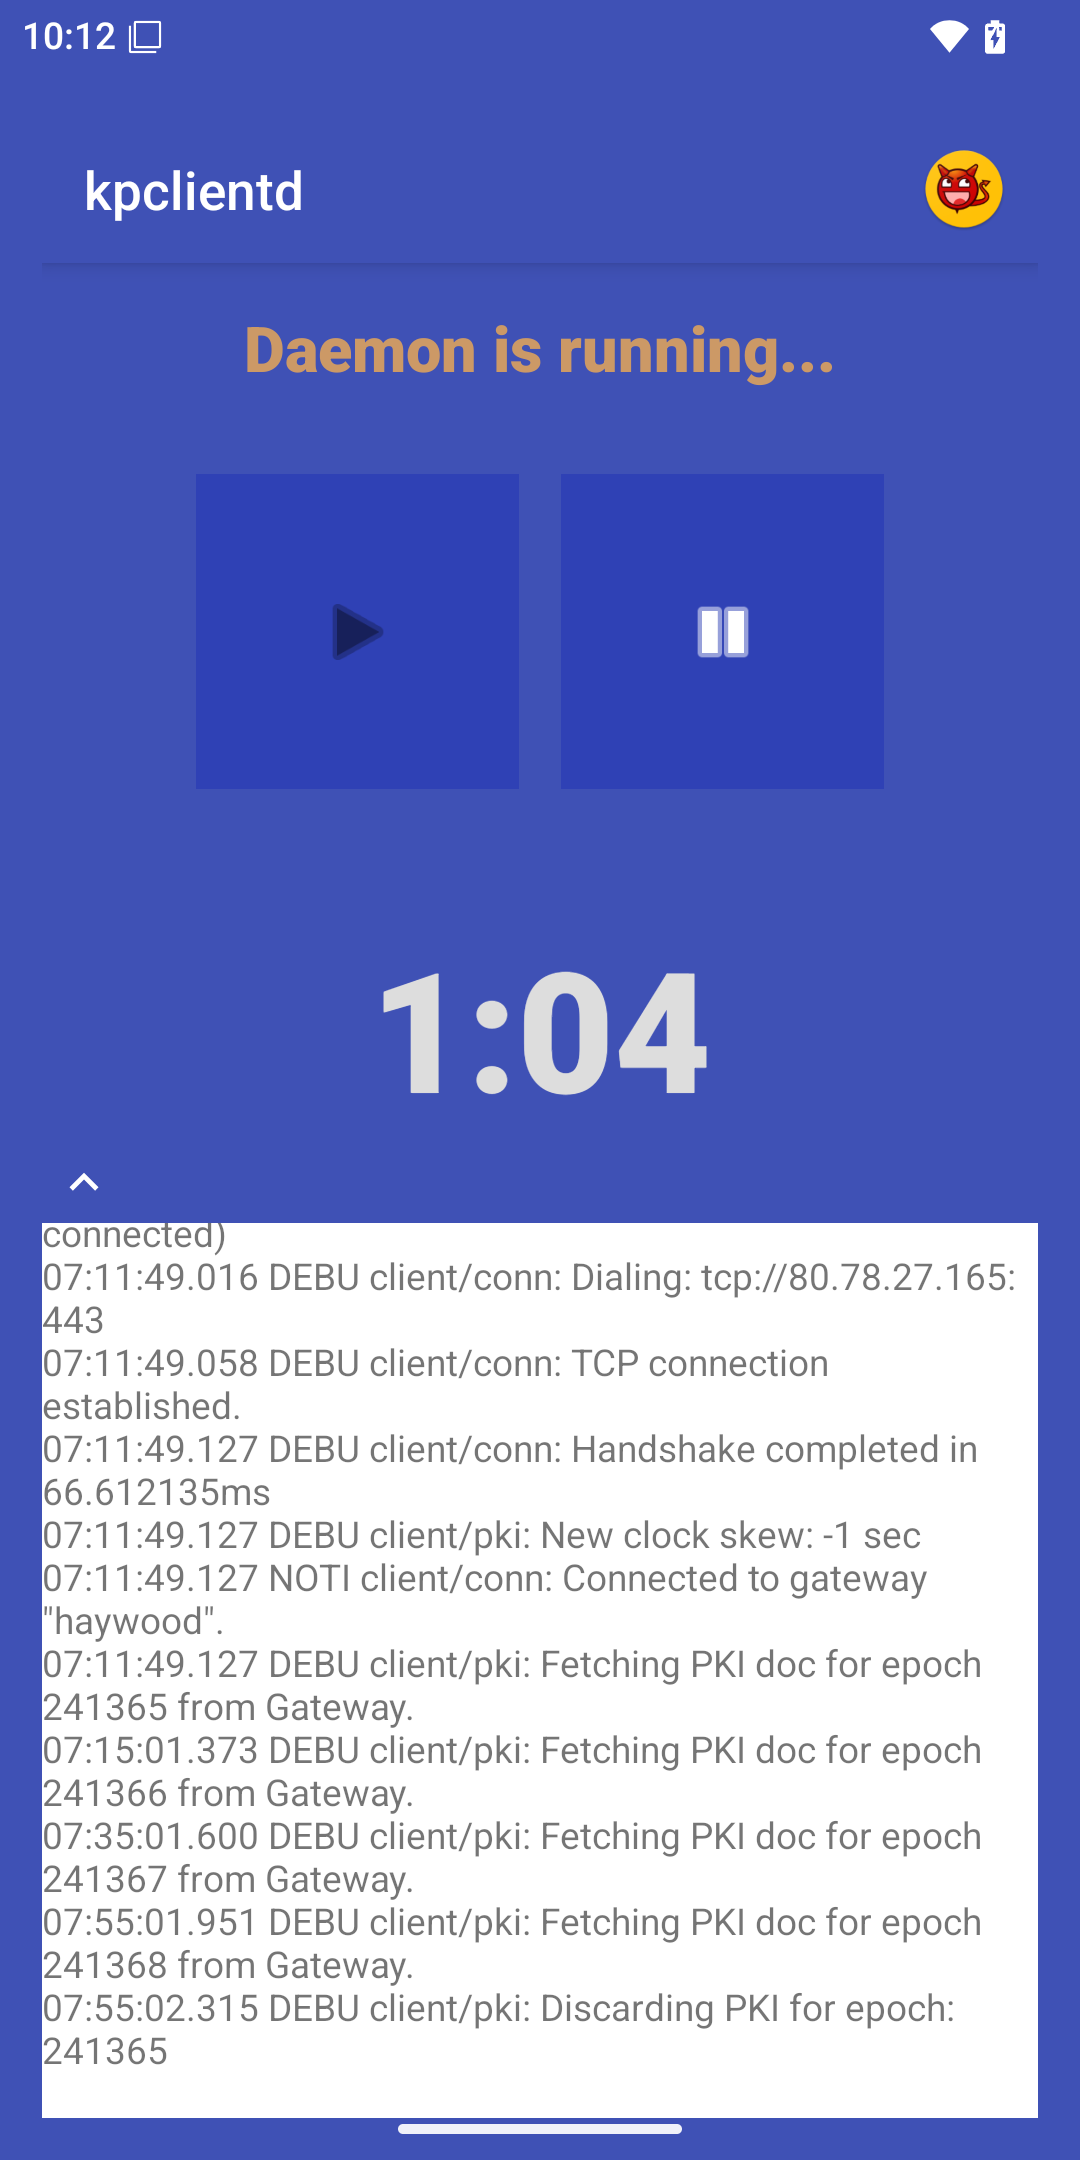
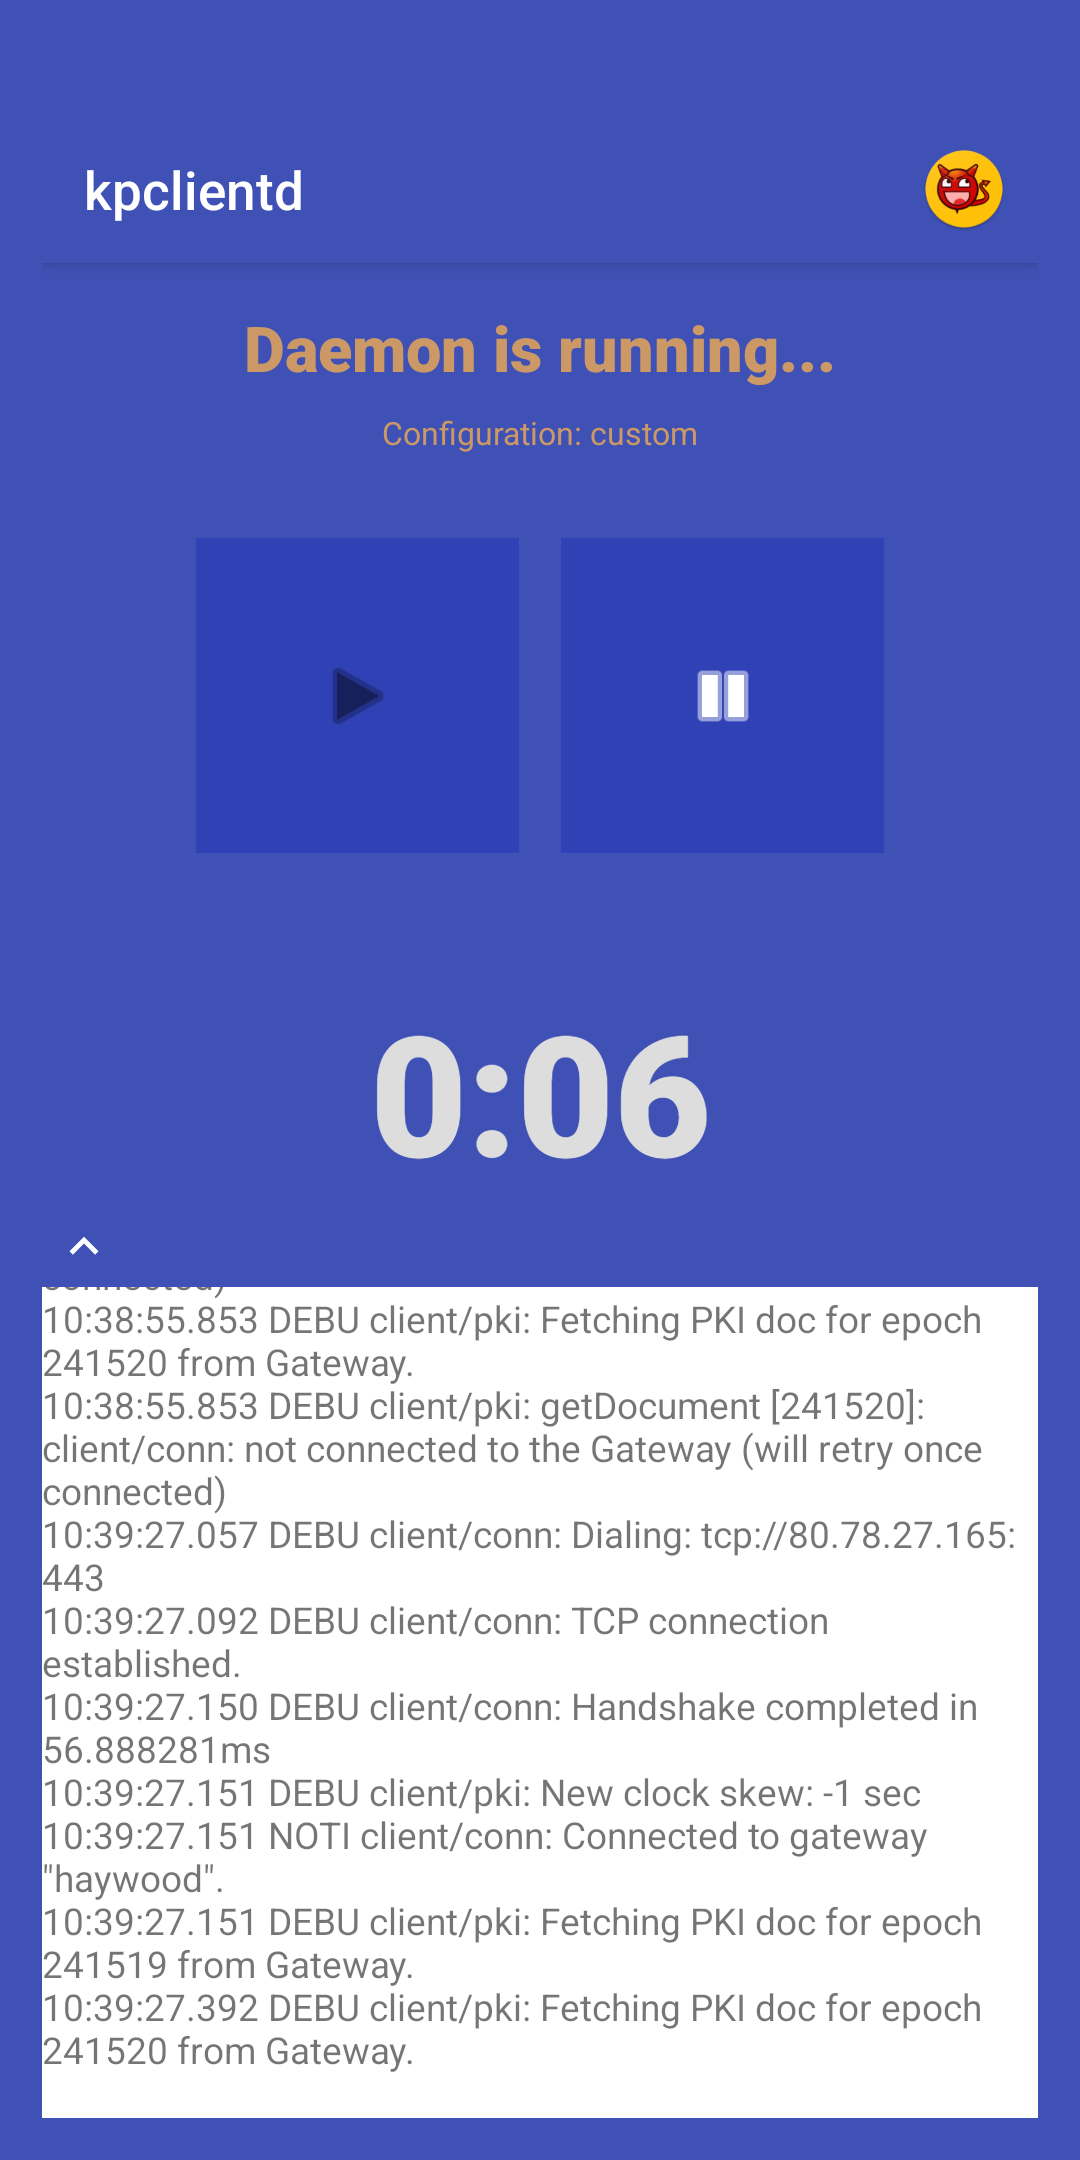
Moved custom config location.

diff --git a/README.md b/README.md
@@ -136,13 +136,11 @@ but it may be outdated the time you want to run the daemon.
 
 Because this file is currently not public (it resides in a private repository
 `github.com/katzenpost/namenlos`) you need to contact the Katzenpost project
-and ask for a new version. Copy the new `client.toml` to the `/data/local/tmp`
+and ask for a new version. Copy the new `client.toml` to the `/sdcard/Download`
 folder on your device, where the daemon will pick it up at start time.
 
-**Beware**: The `/data/local/tmp` folder may be emptied by Android anytime,
-so your custom config may get lost. Copy it again if required.
-
-Click on the app icon to open the GUI.
+Click on the app icon to open the GUI. Below the title line you see a line like
+`Configuration: ...` where either `built-in` or `custom` is specified.
 
 ### Using the app
 
